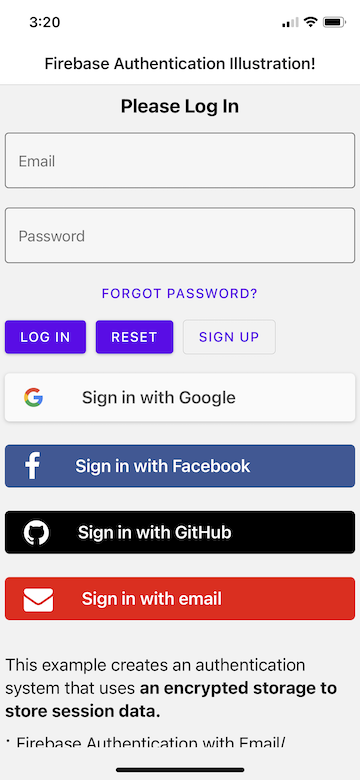
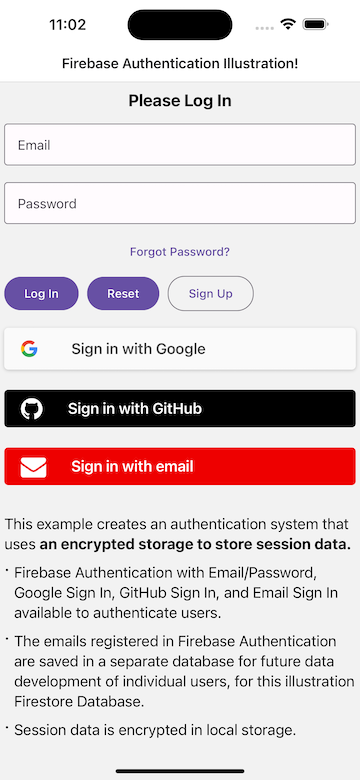
Update index.md

diff --git a/index.md b/index.md
@@ -10,15 +10,17 @@ layout: home
 
 This example creates an authentication system that uses **an encrypted storage to store session data**.
  
-- Firebase Authentication with Email/Password, Google Sign In, Facebook Sign In, GitHub Sign In, and Email Sign In available to authenticate users.
+- Firebase Authentication with Email/Password, Google Sign In, GitHub Sign In, and Email Sign In available to authenticate users.
 - The emails registered in Firebase Authentication are saved in a separate database for future data development of individual users, for this illustration Firestore Database.
 - Session data is encrypted in local storage.
 
-**iOS** and **Android** mobile apps are developed with **React Native**, anyone who is interested can test the apps through the [Expo Publish Link](https://exp.host/@jglchen/firebase-auth) with [Expo Go](https://expo.dev/client) app.
+**iOS** and **Android** mobile apps are developed with **React Native**, anyone who is interested can test the development builds with [iOS Simulator Build](https://expo.dev/accounts/jglchen/projects/firebase-auth/builds/da8ba431-1739-4dd2-8735-2a2a65836d18) and [Android Internal Distribution Build](https://expo.dev/accounts/jglchen/projects/firebase-auth/builds/987f6f8c-d8bd-41f0-95d0-43be634e3bf2). If the build storage link has expired, please go to [https://projects-jglchen.vercel.app/en/contact](https://projects-jglchen.vercel.app/en/contact) to request build files.
+
 
 ![react-native-firebase-auth-screenshot](/images/react-native-firebase-auth-screenshot.png)
 
-### [React Native Expo Publish](https://expo.dev/@jglchen/firebase-auth)
+### [iOS Simulator Build](https://expo.dev/accounts/jglchen/projects/firebase-auth/builds/da8ba431-1739-4dd2-8735-2a2a65836d18)
+### [Android Internal Distribution Build](https://expo.dev/accounts/jglchen/projects/firebase-auth/builds/987f6f8c-d8bd-41f0-95d0-43be634e3bf2)
 ### [React Native GitHub](https://github.com/jglchen/react-native-firebase-auth)
 ### [View the Web Demo](https://firebase-auth-rust.vercel.app)
 ### [React GitHub](https://github.com/jglchen/firebase-auth)
